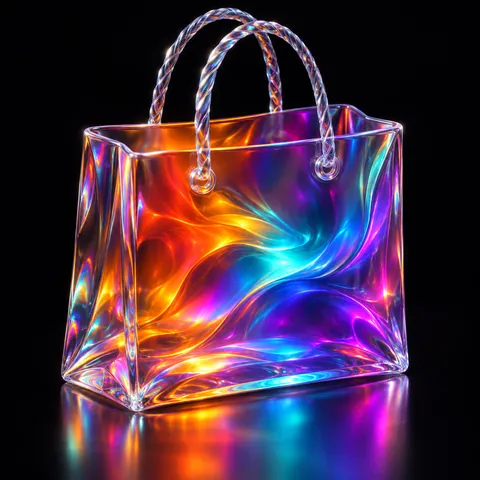
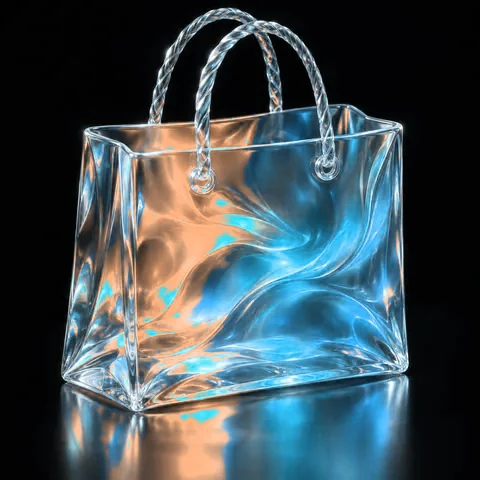
Aurora en todo el sitio: heros interiores, retratos, 3D y cotizador
- Fondo aurora (plate horizontal/vertical) detrás del hero de todas las páginas interiores
- Retrato aurora en About, Selected Work, los 8 casos y Perfluencer (reemplaza B/N y foto café)
- Objetos 3D de vidrio recoloreados de arcoíris a cian/hielo con destellos cobre
- Cotizador GEO: degradados naranjas pasan a aurora azul + cobre
- Breadcrumb por encima de la capa aurora

Claude-Session: https://claude.ai/code/session_01QLwpFo5yUb42fnWrXyK54H

diff --git a/cotizador-geo/index.html b/cotizador-geo/index.html
@@ -9,8 +9,8 @@
   
   <style>
     :root{
-      --bg:#060607;
-      --bg2:#0d0b11;
+      --bg:#01080f;
+      --bg2:#020d17;
       --surface:rgba(255,255,255,.09);
       --surface-strong:rgba(255,255,255,.13);
       --surface-soft:rgba(255,255,255,.06);
@@ -19,9 +19,9 @@
       --muted-2:rgba(255,255,255,.56);
       --line:rgba(255,255,255,.14);
       --line-2:rgba(255,255,255,.09);
-      --accent:#ff8a39;
-      --accent-2:#38d2ff;
-      --accent-3:#ff5f41;
+      --accent:#16b4ec;
+      --accent-2:#8ee4ff;
+      --accent-3:#e3ae82;
       --shadow:0 22px 80px rgba(0,0,0,.4);
       --radius:30px;
       --radius-sm:18px;
@@ -29,13 +29,13 @@
     *{box-sizing:border-box}
     html{scroll-behavior:smooth}
     body{margin:0;overflow-x:hidden;background:
-      radial-gradient(900px 520px at 16% 0%, rgba(255,131,43,.92) 0%, rgba(255,91,23,.9) 20%, rgba(109,26,6,.55) 45%, rgba(6,6,7,0) 66%),
-      radial-gradient(900px 550px at 92% 8%, rgba(255,150,52,.55) 0%, rgba(255,98,29,.34) 22%, rgba(4,4,8,0) 65%),
+      radial-gradient(900px 520px at 16% 0%, rgba(22,180,236,.5) 0%, rgba(14,110,190,.42) 22%, rgba(2,40,70,.45) 45%, rgba(6,6,7,0) 66%),
+      radial-gradient(900px 550px at 92% 8%, rgba(227,174,130,.22) 0%, rgba(150,95,60,.12) 22%, rgba(4,4,8,0) 65%),
       radial-gradient(760px 420px at 62% 100%, rgba(34,177,255,.78) 0%, rgba(9,93,160,.46) 26%, rgba(7,9,16,0) 62%),
-      linear-gradient(180deg,#0a090d 0%,#07070a 100%);
+      linear-gradient(180deg,#01080f 0%,#020d17 100%);
       color:var(--ink);font-family:Inter,ui-sans-serif,-apple-system,BlinkMacSystemFont,"Segoe UI",sans-serif;line-height:1.45;letter-spacing:-.01em}
     body:before,body:after{content:"";position:fixed;inset:auto;pointer-events:none;z-index:0;border-radius:999px;filter:blur(.2px)}
-    body:before{width:1100px;height:1100px;left:-360px;top:260px;border:8px solid rgba(255,125,50,.82);box-shadow:0 0 0 3px rgba(255,255,255,.13),0 0 35px rgba(255,120,44,.55) inset;opacity:.85;transform:rotate(-12deg)}
+    body:before{width:1100px;height:1100px;left:-360px;top:260px;border:8px solid rgba(227,174,130,.55);box-shadow:0 0 0 3px rgba(255,255,255,.13),0 0 35px rgba(227,174,130,.3) inset;opacity:.85;transform:rotate(-12deg)}
     body:after{width:980px;height:980px;right:-420px;bottom:-250px;border:8px solid rgba(57,218,255,.95);box-shadow:0 0 0 2px rgba(255,255,255,.12),0 0 40px rgba(35,210,255,.48) inset;opacity:.88;transform:rotate(12deg)}
     button,input,select,textarea{font:inherit}
     button{cursor:pointer}
@@ -84,7 +84,7 @@
     .choice-grid{display:grid;grid-template-columns:repeat(3,minmax(0,1fr));gap:10px}
     .choice{padding:17px 14px 14px;background:rgba(255,255,255,.04);border:1.5px solid rgba(255,255,255,.12);border-radius:18px;text-align:left;display:flex;flex-direction:column;align-items:flex-start;gap:7px;min-height:112px;transition:.18s ease;color:#fff}
     .choice:hover,.btn-option:hover,.action:hover{transform:translateY(-1px)}
-    .choice[aria-pressed=true]{border-color:rgba(255,138,57,.65);background:linear-gradient(180deg,rgba(255,139,57,.18),rgba(255,255,255,.07));box-shadow:inset 0 0 0 1px rgba(255,255,255,.06),0 16px 30px rgba(0,0,0,.16)}
+    .choice[aria-pressed=true]{border-color:rgba(22,180,236,.65);background:linear-gradient(180deg,rgba(22,180,236,.18),rgba(255,255,255,.07));box-shadow:inset 0 0 0 1px rgba(255,255,255,.06),0 16px 30px rgba(0,0,0,.16)}
     .choice strong{font-size:13px;line-height:1.3}.choice small{font-size:11px;color:var(--muted)}.choice .price-chip{margin-top:auto;color:#fff;font-size:11px;font-weight:800;opacity:.9}
     .sect{margin-top:18px;padding-top:18px;border-top:1px solid var(--line-2)}.sect:first-child{margin-top:0;padding-top:0;border-top:0}.sect-title{font-size:12px;font-weight:850;letter-spacing:.09em;text-transform:uppercase;margin:0 0 12px;color:rgba(255,255,255,.76)}
     .two-choice{display:grid;grid-template-columns:1fr 1fr;gap:10px}
@@ -94,17 +94,17 @@
     .conditional[hidden],.optional-block[hidden]{display:none!important}
     .service{display:grid;grid-template-columns:21px minmax(0,1fr) auto;column-gap:13px;align-items:start;padding:18px 0;border-bottom:1px solid rgba(255,255,255,.08)}
     .service:last-child{border-bottom:0;padding-bottom:0}.service:first-child{padding-top:0}
-    .service input[type=checkbox]{accent-color:#ff8a39;width:18px;height:18px;cursor:pointer;margin:3px 0 0}
+    .service input[type=checkbox]{accent-color:#16b4ec;width:18px;height:18px;cursor:pointer;margin:3px 0 0}
     .service-title{font-size:13px;font-weight:750;color:#fff}.service-desc{font-size:11px;color:var(--muted);line-height:1.55;margin:3px 0 0;max-width:520px}.service-price{font-size:12px;font-weight:800;white-space:nowrap;margin-top:2px;color:#fff}.service-price small{font-size:10px;font-weight:500;color:var(--muted-2)}.service.is-disabled{opacity:.46}.service.is-disabled input{cursor:not-allowed}
     .range-service{padding:16px 0;border-bottom:1px solid rgba(255,255,255,.08);display:grid;grid-template-columns:minmax(0,1fr) 140px;gap:14px;align-items:center}.range-service:last-child{border:0}
-    .quantity{min-width:34px;text-align:center;font-size:15px;font-weight:800;color:#fff}.counter{display:flex;align-items:center;justify-content:space-between;background:rgba(255,255,255,.06);border:1px solid rgba(255,255,255,.09);border-radius:14px;padding:4px}.count-btn{width:34px;height:34px;border:0;background:rgba(255,255,255,.1);border-radius:10px;font-size:21px;color:#fff;box-shadow:0 1px 4px rgba(0,0,0,.08)}.count-btn:hover{background:rgba(255,138,57,.35)}.count-note{font-size:10px;color:var(--muted-2);text-align:center;margin-top:3px}.range-service.is-disabled{opacity:.45}.range-service.is-disabled .count-btn{pointer-events:none}
-    .notice{padding:13px 16px;background:rgba(255,255,255,.07);border-left:3px solid rgba(56,210,255,.92);color:var(--muted);font-size:11px;border-radius:0 10px 10px 0;line-height:1.65}.notice.warning{border-left-color:rgba(255,138,57,.92);background:rgba(255,163,82,.08);color:rgba(255,255,255,.78)}
+    .quantity{min-width:34px;text-align:center;font-size:15px;font-weight:800;color:#fff}.counter{display:flex;align-items:center;justify-content:space-between;background:rgba(255,255,255,.06);border:1px solid rgba(255,255,255,.09);border-radius:14px;padding:4px}.count-btn{width:34px;height:34px;border:0;background:rgba(255,255,255,.1);border-radius:10px;font-size:21px;color:#fff;box-shadow:0 1px 4px rgba(0,0,0,.08)}.count-btn:hover{background:rgba(22,180,236,.35)}.count-note{font-size:10px;color:var(--muted-2);text-align:center;margin-top:3px}.range-service.is-disabled{opacity:.45}.range-service.is-disabled .count-btn{pointer-events:none}
+    .notice{padding:13px 16px;background:rgba(255,255,255,.07);border-left:3px solid rgba(56,210,255,.92);color:var(--muted);font-size:11px;border-radius:0 10px 10px 0;line-height:1.65}.notice.warning{border-left-color:rgba(22,180,236,.92);background:rgba(22,180,236,.08);color:rgba(255,255,255,.78)}
     .summary{position:sticky;top:20px;background:linear-gradient(180deg,rgba(255,255,255,.14),rgba(255,255,255,.08));color:white;border-radius:38px;box-shadow:var(--shadow);padding:26px;overflow:hidden;border:1px solid rgba(255,255,255,.16);backdrop-filter:blur(28px);-webkit-backdrop-filter:blur(28px)}
     .summary:after{content:"";position:absolute;inset:auto -120px -160px auto;width:320px;height:320px;background:radial-gradient(circle at 50% 50%, rgba(56,210,255,.42), rgba(56,210,255,0) 65%);pointer-events:none}
     .sum-kicker{font-size:11px;text-transform:uppercase;letter-spacing:.14em;font-weight:850;color:rgba(255,255,255,.84)}
     .summary h2{font-size:25px;line-height:1.06;letter-spacing:-.05em;margin:12px 0 8px;color:#fff}
     .summary .sum-desc{font-size:12px;color:var(--muted);margin:0 0 22px}
-    .big-number{font-size:41px;letter-spacing:-.07em;font-weight:850;line-height:1.05}.label-muted{font-size:11px;color:rgba(255,255,255,.6)}.sum-hero{padding-bottom:23px;border-bottom:1px solid rgba(255,255,255,.1)}.sum-stat{display:grid;grid-template-columns:1fr 1fr;gap:12px;padding:18px 0 21px;border-bottom:1px solid rgba(255,255,255,.1)}.sum-stat strong{display:block;font-size:18px;letter-spacing:-.04em;margin-top:3px;color:#fff}.sum-stat .label-muted{display:block}.sum-lines{padding:16px 0 12px;max-height:280px;overflow:auto}.sum-lines::-webkit-scrollbar{width:8px}.sum-lines::-webkit-scrollbar-thumb{background:rgba(255,255,255,.12);border-radius:10px}.line{display:grid;grid-template-columns:minmax(0,1fr) auto;gap:10px;font-size:11px;line-height:1.4;padding:5px 0;color:rgba(255,255,255,.85)}.line .right{text-align:right;font-weight:800;color:#fff;white-space:nowrap}.line .meta{color:rgba(255,255,255,.5);font-size:10px;display:block}.sum-total{border-top:1px solid rgba(255,255,255,.1);padding:17px 0 8px;display:flex;align-items:end;justify-content:space-between;gap:10px}.sum-total .big-total{font-size:30px;font-weight:850;letter-spacing:-.05em}.sum-note{font-size:10px;color:rgba(255,255,255,.62);line-height:1.55;margin:8px 0 21px}.action{width:100%;min-height:46px;border-radius:14px;border:1px solid rgba(255,255,255,.16);background:rgba(255,255,255,.08);color:#fff;font-size:12px;font-weight:800;display:flex;align-items:center;justify-content:center;gap:8px;margin-top:8px;transition:.18s ease}.action.primary{background:linear-gradient(135deg,#fff 0%,#ffd7bf 100%);color:#120c0d;border-color:transparent}.action.secondary{background:rgba(255,255,255,.1)}.action.flat{border:0;font-weight:500;color:rgba(255,255,255,.72);font-size:11px;min-height:30px;background:transparent}.footnote{max-width:1336px;padding:0 28px 48px;margin:auto;font-size:11px;color:rgba(255,255,255,.62);line-height:1.7}.footnote strong{color:#fff}.micro{font-size:11px;color:rgba(255,255,255,.56)}.stack{display:flex;flex-direction:column;gap:10px}.flex-between{display:flex;align-items:center;justify-content:space-between;gap:12px}.visually-hidden{position:absolute;width:1px;height:1px;overflow:hidden;clip:rect(0,0,0,0)}.toast{position:fixed;bottom:23px;left:50%;transform:translateX(-50%) translateY(20px);background:#101219;color:white;padding:12px 20px;border-radius:50px;box-shadow:0 12px 35px rgba(0,0,0,.36);font-size:12px;font-weight:700;z-index:20;opacity:0;pointer-events:none;transition:.25s;border:1px solid rgba(255,255,255,.12)}.toast.show{transform:translateX(-50%);opacity:1}
+    .big-number{font-size:41px;letter-spacing:-.07em;font-weight:850;line-height:1.05}.label-muted{font-size:11px;color:rgba(255,255,255,.6)}.sum-hero{padding-bottom:23px;border-bottom:1px solid rgba(255,255,255,.1)}.sum-stat{display:grid;grid-template-columns:1fr 1fr;gap:12px;padding:18px 0 21px;border-bottom:1px solid rgba(255,255,255,.1)}.sum-stat strong{display:block;font-size:18px;letter-spacing:-.04em;margin-top:3px;color:#fff}.sum-stat .label-muted{display:block}.sum-lines{padding:16px 0 12px;max-height:280px;overflow:auto}.sum-lines::-webkit-scrollbar{width:8px}.sum-lines::-webkit-scrollbar-thumb{background:rgba(255,255,255,.12);border-radius:10px}.line{display:grid;grid-template-columns:minmax(0,1fr) auto;gap:10px;font-size:11px;line-height:1.4;padding:5px 0;color:rgba(255,255,255,.85)}.line .right{text-align:right;font-weight:800;color:#fff;white-space:nowrap}.line .meta{color:rgba(255,255,255,.5);font-size:10px;display:block}.sum-total{border-top:1px solid rgba(255,255,255,.1);padding:17px 0 8px;display:flex;align-items:end;justify-content:space-between;gap:10px}.sum-total .big-total{font-size:30px;font-weight:850;letter-spacing:-.05em}.sum-note{font-size:10px;color:rgba(255,255,255,.62);line-height:1.55;margin:8px 0 21px}.action{width:100%;min-height:46px;border-radius:14px;border:1px solid rgba(255,255,255,.16);background:rgba(255,255,255,.08);color:#fff;font-size:12px;font-weight:800;display:flex;align-items:center;justify-content:center;gap:8px;margin-top:8px;transition:.18s ease}.action.primary{background:linear-gradient(135deg,#fff 0%,#cdeefb 100%);color:#120c0d;border-color:transparent}.action.secondary{background:rgba(255,255,255,.1)}.action.flat{border:0;font-weight:500;color:rgba(255,255,255,.72);font-size:11px;min-height:30px;background:transparent}.footnote{max-width:1336px;padding:0 28px 48px;margin:auto;font-size:11px;color:rgba(255,255,255,.62);line-height:1.7}.footnote strong{color:#fff}.micro{font-size:11px;color:rgba(255,255,255,.56)}.stack{display:flex;flex-direction:column;gap:10px}.flex-between{display:flex;align-items:center;justify-content:space-between;gap:12px}.visually-hidden{position:absolute;width:1px;height:1px;overflow:hidden;clip:rect(0,0,0,0)}.toast{position:fixed;bottom:23px;left:50%;transform:translateX(-50%) translateY(20px);background:#101219;color:white;padding:12px 20px;border-radius:50px;box-shadow:0 12px 35px rgba(0,0,0,.36);font-size:12px;font-weight:700;z-index:20;opacity:0;pointer-events:none;transition:.25s;border:1px solid rgba(255,255,255,.12)}.toast.show{transform:translateX(-50%);opacity:1}
     #printSheet{display:none}
     @media(prefers-reduced-motion:reduce){html{scroll-behavior:auto}*,*::before,*::after{transition:none!important;animation:none!important}}
     @media(max-width:1030px){.layout{grid-template-columns:minmax(0,1fr) 330px;gap:18px}.hero-inner{grid-template-columns:1fr 280px;gap:22px}.choice-grid{grid-template-columns:1fr 1fr}.summary{padding:22px}.big-number{font-size:34px}}

diff --git a/assets/glass.css b/assets/glass.css
@@ -378,3 +378,21 @@ body :is(.btn,.button):not(.secondary):not(.btn-secondary):hover,body .site-menu
     background:radial-gradient(120% 120% at 50% -20%,rgba(255,255,255,.55),rgba(255,255,255,0) 55%),linear-gradient(180deg,#5fd4fa,#16b4ec 55%,#0b97d4);
     box-shadow:inset 0 1px 0 rgba(255,255,255,.7),0 8px 20px -6px rgba(22,180,236,.8)}
 }
+
+/* ==========================================================================
+   Interior pages — aurora backdrop behind every hero (Nov 2026)
+   ========================================================================== */
+.site-page .hero{isolation:isolate}
+body.site-page .hero::before{display:block;content:"";position:absolute;z-index:-1;pointer-events:none;inset:-150px 0 0;
+  background:url(/assets/hero/aurora-plate-wide-1672.webp) center 58%/cover no-repeat;opacity:.62;
+  -webkit-mask-image:linear-gradient(180deg,#000 0%,#000 55%,transparent 100%);mask-image:linear-gradient(180deg,#000 0%,#000 55%,transparent 100%)}
+body.site-page .hero::after{display:block;content:"";position:absolute;z-index:-1;pointer-events:none;inset:-150px 0 0;
+  background:linear-gradient(90deg,rgba(1,8,15,.78) 0%,rgba(1,8,15,.35) 50%,rgba(1,8,15,.1) 100%)}
+/* hero portraits on case pages get the aurora ring */
+.site-page :is(.hero-card>img,.hero-photo){box-shadow:0 0 0 1.5px rgba(142,228,255,.35),0 40px 90px -40px rgba(22,180,236,.6)}
+@media (max-width:760px){
+  body.site-page .hero::before{inset:-120px 0 0;background-image:url(/assets/hero/aurora-plate-tall-941.webp);background-position:center 30%;opacity:.55}
+  body.site-page .hero::after{background:linear-gradient(180deg,rgba(1,8,15,.2),rgba(1,8,15,.55))}
+}
+@media (prefers-reduced-transparency:reduce){body.site-page .hero::before{opacity:.35}}
+.site-page :is(.breadcrumb,.breadcrumbs,.crumbs,nav[aria-label="Breadcrumb"]){position:relative;z-index:2}

diff --git a/about/index.html b/about/index.html
@@ -1080,7 +1080,7 @@
         </div>
 
         <div class="hero-photo-wrap" aria-label="Portrait of Alexis Soubran">
-          <img src="/assets/photos/portrait-studio-1280.webp" srcset="/assets/photos/portrait-studio-640.webp 640w, /assets/photos/portrait-studio-1280.webp 1280w" sizes="(max-width: 900px) calc(100vw - 48px), 480px" width="1280" height="1908" alt="Alexis Soubran, CEO and partner at Minimalist Agency" class="hero-photo photo-studio" loading="eager" decoding="async" fetchpriority="high">
+          <img src="/assets/photos/portrait-aurora-tall-941.webp" srcset="/assets/photos/portrait-aurora-tall-640.webp 640w, /assets/photos/portrait-aurora-tall-941.webp 941w" sizes="(max-width: 900px) calc(100vw - 48px), 480px" width="941" height="1412" alt="Alexis Soubran, CEO and partner at Minimalist Agency" class="hero-photo photo-studio" loading="eager" decoding="async" fetchpriority="high">
           <div class="photo-caption">
             <strong>Operator, not spectator.</strong>
             Strategy is useful only when it changes what gets built, measured, cut, or scaled.

diff --git a/perfluencer-marketing/index.html b/perfluencer-marketing/index.html
@@ -1130,7 +1130,7 @@
         </div>
 
         <aside class="hero-card" aria-label="Author card for Alexis Soubran">
-          <img src="/assets/photos/portrait-monochrome-1280.webp" alt="Alexis Soubran, creator of the Perfluencer Marketing framework" loading="eager" fetchpriority="high">
+          <img src="/assets/photos/portrait-aurora-941.webp" alt="Alexis Soubran, creator of the Perfluencer Marketing framework" loading="eager" fetchpriority="high">
           <div class="hero-card-caption">
             <strong>Created by Alexis Soubran</strong>
             <span>CEO &amp; Partner at Minimalist Agency. Author of <em>Oops, I Bought It</em>. Revenue systems operator for global brands in Mexico and LATAM.</span>

diff --git a/work/amd/index.html b/work/amd/index.html
@@ -299,7 +299,7 @@ footer a:hover{color:var(--text)}
       </div>
     </div>
     <div class="hero-card">
-      <img class="hero-photo" src="/assets/photos/portrait-monochrome-1280.webp" alt="Alexis Soubran, Revenue Systems Operator for global brands in Mexico and LATAM" loading="eager" fetchpriority="high">
+      <img class="hero-photo" src="/assets/photos/portrait-aurora-941.webp" alt="Alexis Soubran, Revenue Systems Operator for global brands in Mexico and LATAM" loading="eager" fetchpriority="high">
       <div class="overlay"><strong>System type</strong><span>Retail intent engine: paid media optimized toward high-intent eTailer clicks and downstream sales signals.</span></div>
     </div>
   </div>

diff --git a/work/index.html b/work/index.html
@@ -338,7 +338,7 @@ footer a:hover{color:var(--text)}
       </div>
     </div>
     <div class="hero-card">
-      <img class="hero-photo" src="/assets/photos/portrait-monochrome-1280.webp" alt="Alexis Soubran, Revenue Systems Operator for global brands in Mexico and LATAM" loading="eager" fetchpriority="high">
+      <img class="hero-photo" src="/assets/photos/portrait-aurora-941.webp" alt="Alexis Soubran, Revenue Systems Operator for global brands in Mexico and LATAM" loading="eager" fetchpriority="high">
       <div class="overlay"><strong>Role</strong><span>Architect and operator across GTM, paid media, creators, CRM, analytics, and commercial feedback loops.</span></div>
     </div>
   </div>

diff --git a/work/credijusto/index.html b/work/credijusto/index.html
@@ -298,7 +298,7 @@ footer a:hover{color:var(--text)}
       </div>
     </div>
     <div class="hero-card">
-      <img class="hero-photo" src="/assets/photos/portrait-monochrome-1280.webp" alt="Alexis Soubran, Revenue Systems Operator for global brands in Mexico and LATAM" loading="eager" fetchpriority="high">
+      <img class="hero-photo" src="/assets/photos/portrait-aurora-941.webp" alt="Alexis Soubran, Revenue Systems Operator for global brands in Mexico and LATAM" loading="eager" fetchpriority="high">
       <div class="overlay"><strong>System type</strong><span>Fintech revenue efficiency: conversion value, ROI, and CPA governance for lending demand.</span></div>
     </div>
   </div>

diff --git a/work/bitso/index.html b/work/bitso/index.html
@@ -300,7 +300,7 @@ footer a:hover{color:var(--text)}
       </div>
     </div>
     <div class="hero-card">
-      <img class="hero-photo" src="/assets/photos/portrait-monochrome-1280.webp" alt="Alexis Soubran, architect of the Mobile Acquisition Quality System for Bitso" loading="eager" fetchpriority="high">
+      <img class="hero-photo" src="/assets/photos/portrait-aurora-941.webp" alt="Alexis Soubran, architect of the Mobile Acquisition Quality System for Bitso" loading="eager" fetchpriority="high">
       <div class="overlay"><strong>Scope</strong><span>Fintech / Crypto · Mexico / LATAM</span></div>
     </div>
   </div>

diff --git a/work/sharkninja/index.html b/work/sharkninja/index.html
@@ -300,7 +300,7 @@ footer a:hover{color:var(--text)}
       </div>
     </div>
     <div class="hero-card">
-      <img class="hero-photo" src="/assets/photos/portrait-monochrome-1280.webp" alt="Alexis Soubran, architect of the Creator Commerce System for SharkNinja" loading="eager" fetchpriority="high">
+      <img class="hero-photo" src="/assets/photos/portrait-aurora-941.webp" alt="Alexis Soubran, architect of the Creator Commerce System for SharkNinja" loading="eager" fetchpriority="high">
       <div class="overlay"><strong>Scope</strong><span>Consumer goods / Beauty / Home · Mexico</span></div>
     </div>
   </div>

diff --git a/work/measurement-operating-system/index.html b/work/measurement-operating-system/index.html
@@ -635,7 +635,7 @@ footer a:hover{color:var(--text)}
     <div class="hero-card">
       <img
         class="hero-photo"
-        src="/assets/photos/portrait-monochrome-1280.webp"
+        src="/assets/photos/portrait-aurora-941.webp"
         alt="Alexis Soubran, architect of the Measurement Operating System for DTC supplement brands"
         loading="eager"
         fetchpriority="high"

diff --git a/work/automotive-demand-control/index.html b/work/automotive-demand-control/index.html
@@ -634,7 +634,7 @@ footer a:hover{color:var(--text)}
     <div class="hero-card">
       <img
         class="hero-photo"
-        src="/assets/photos/portrait-monochrome-1280.webp"
+        src="/assets/photos/portrait-aurora-941.webp"
         alt="Alexis Soubran, architect of automotive demand control systems in Mexico and LATAM"
         loading="eager"
         fetchpriority="high"

diff --git a/work/suzuki-grand-vitara/index.html b/work/suzuki-grand-vitara/index.html
@@ -845,7 +845,7 @@ footer a:hover{
     <div class="hero-card">
       <img
         class="hero-photo"
-        src="/assets/photos/portrait-monochrome-1280.webp"
+        src="/assets/photos/portrait-aurora-941.webp"
         alt="Alexis Soubran, Revenue Systems Operator for global brands in Mexico and LATAM"
         loading="eager"
         fetchpriority="high"
